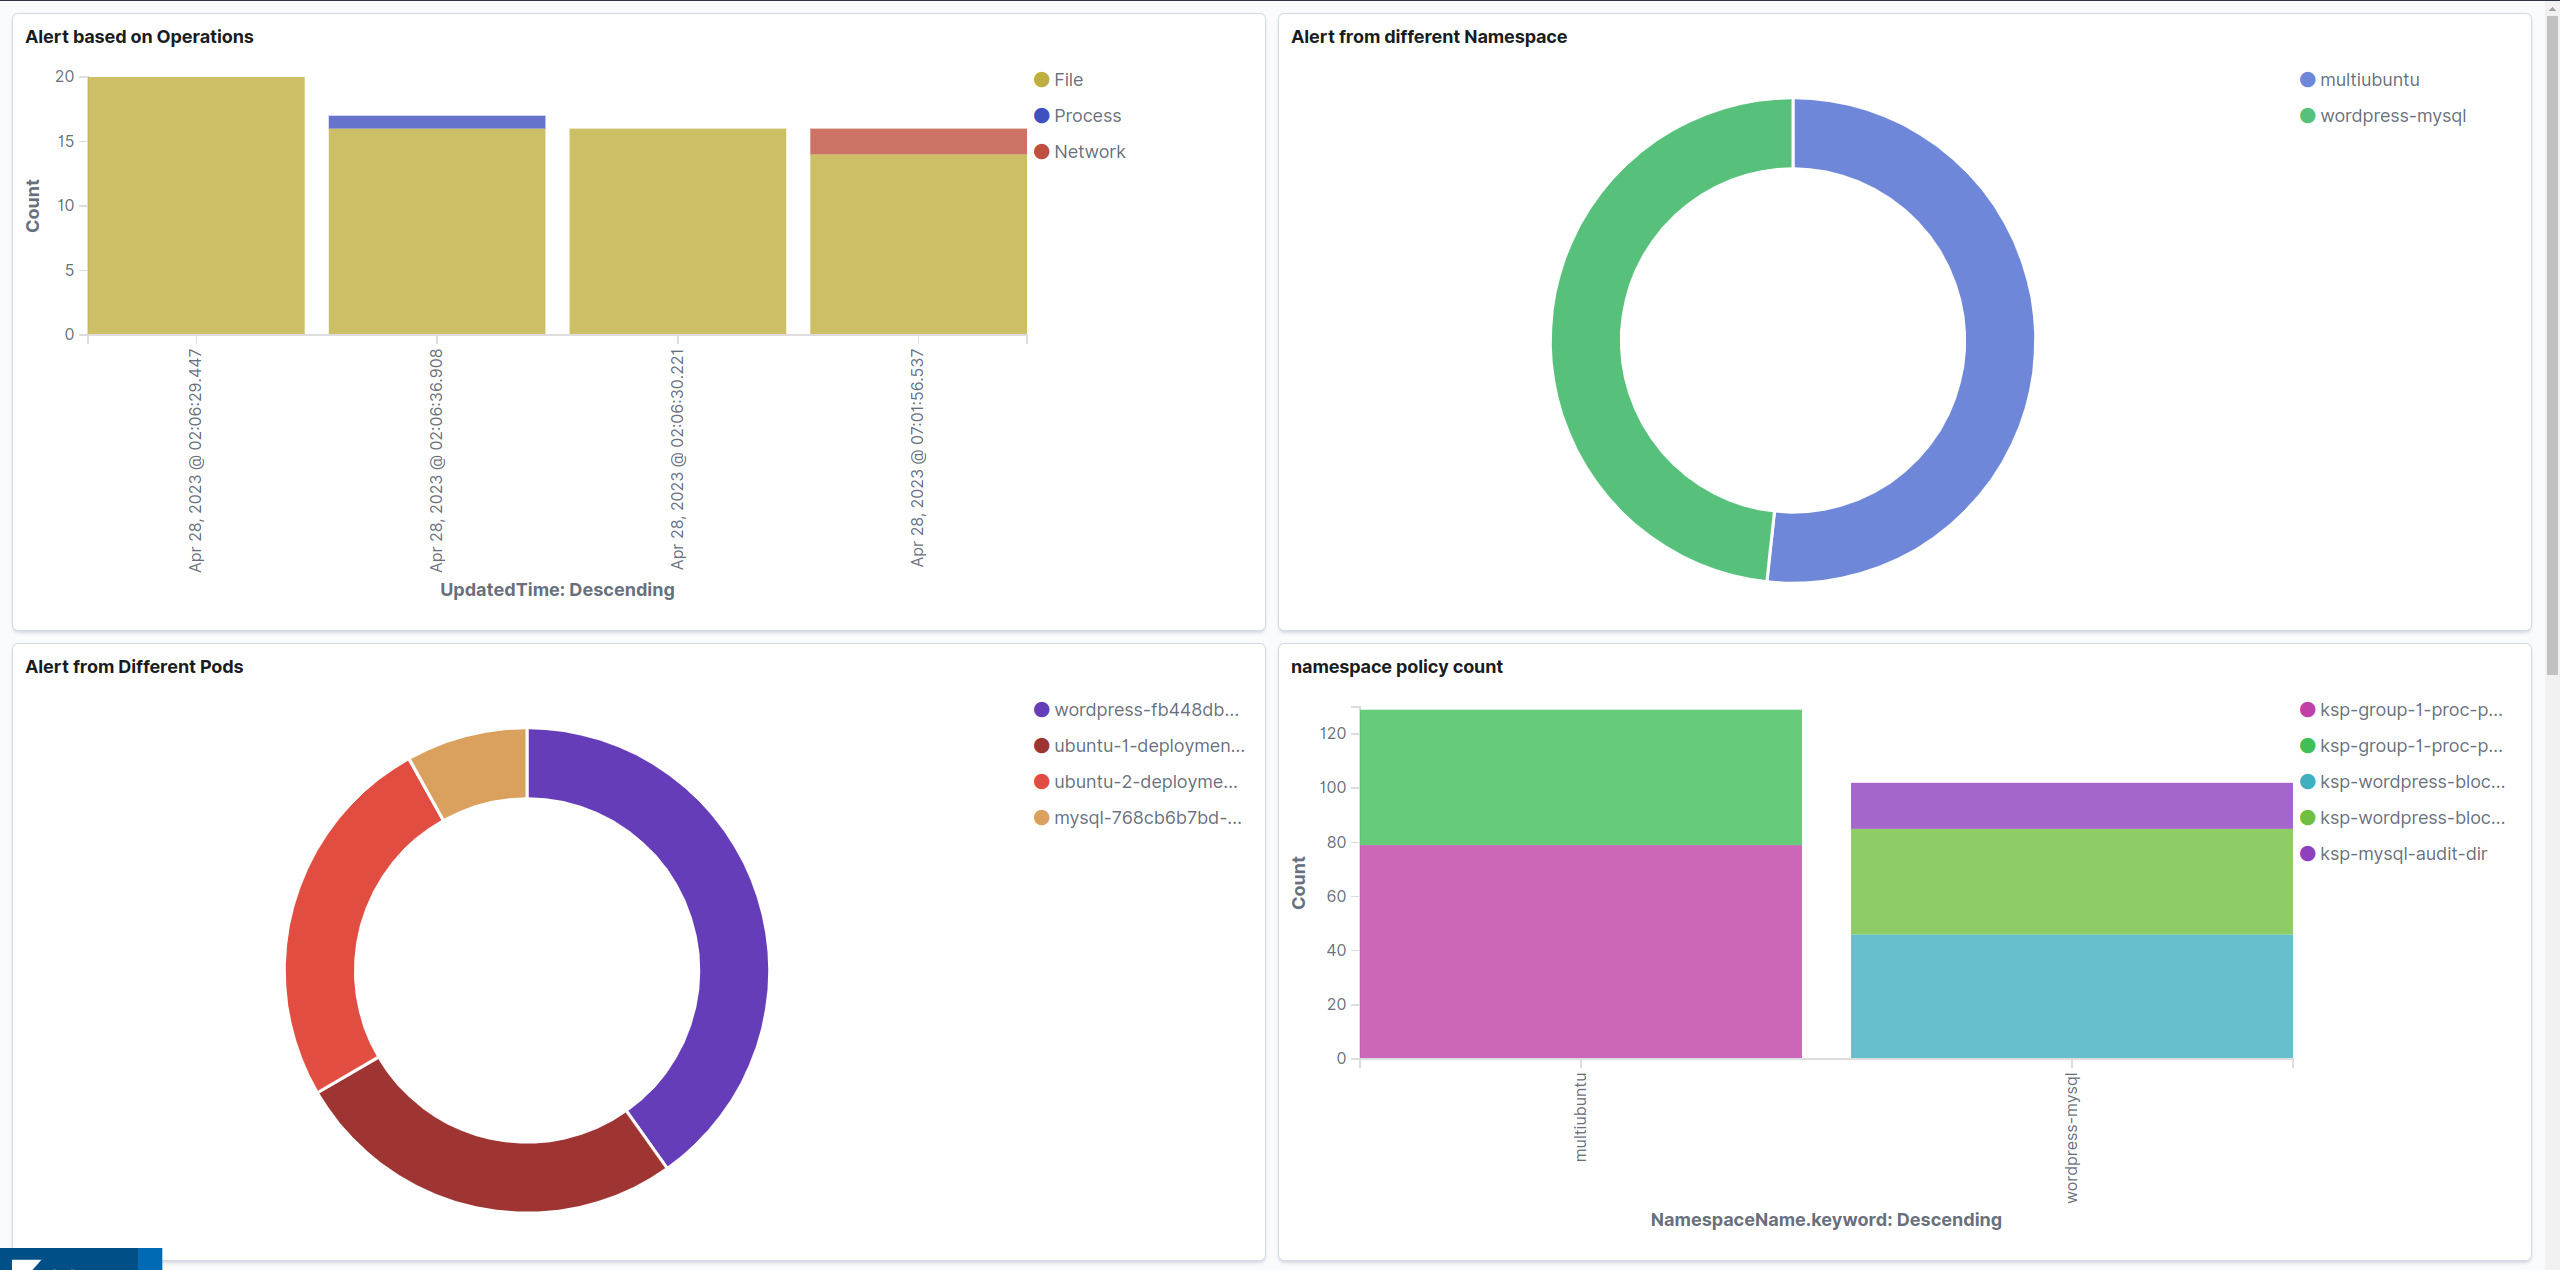
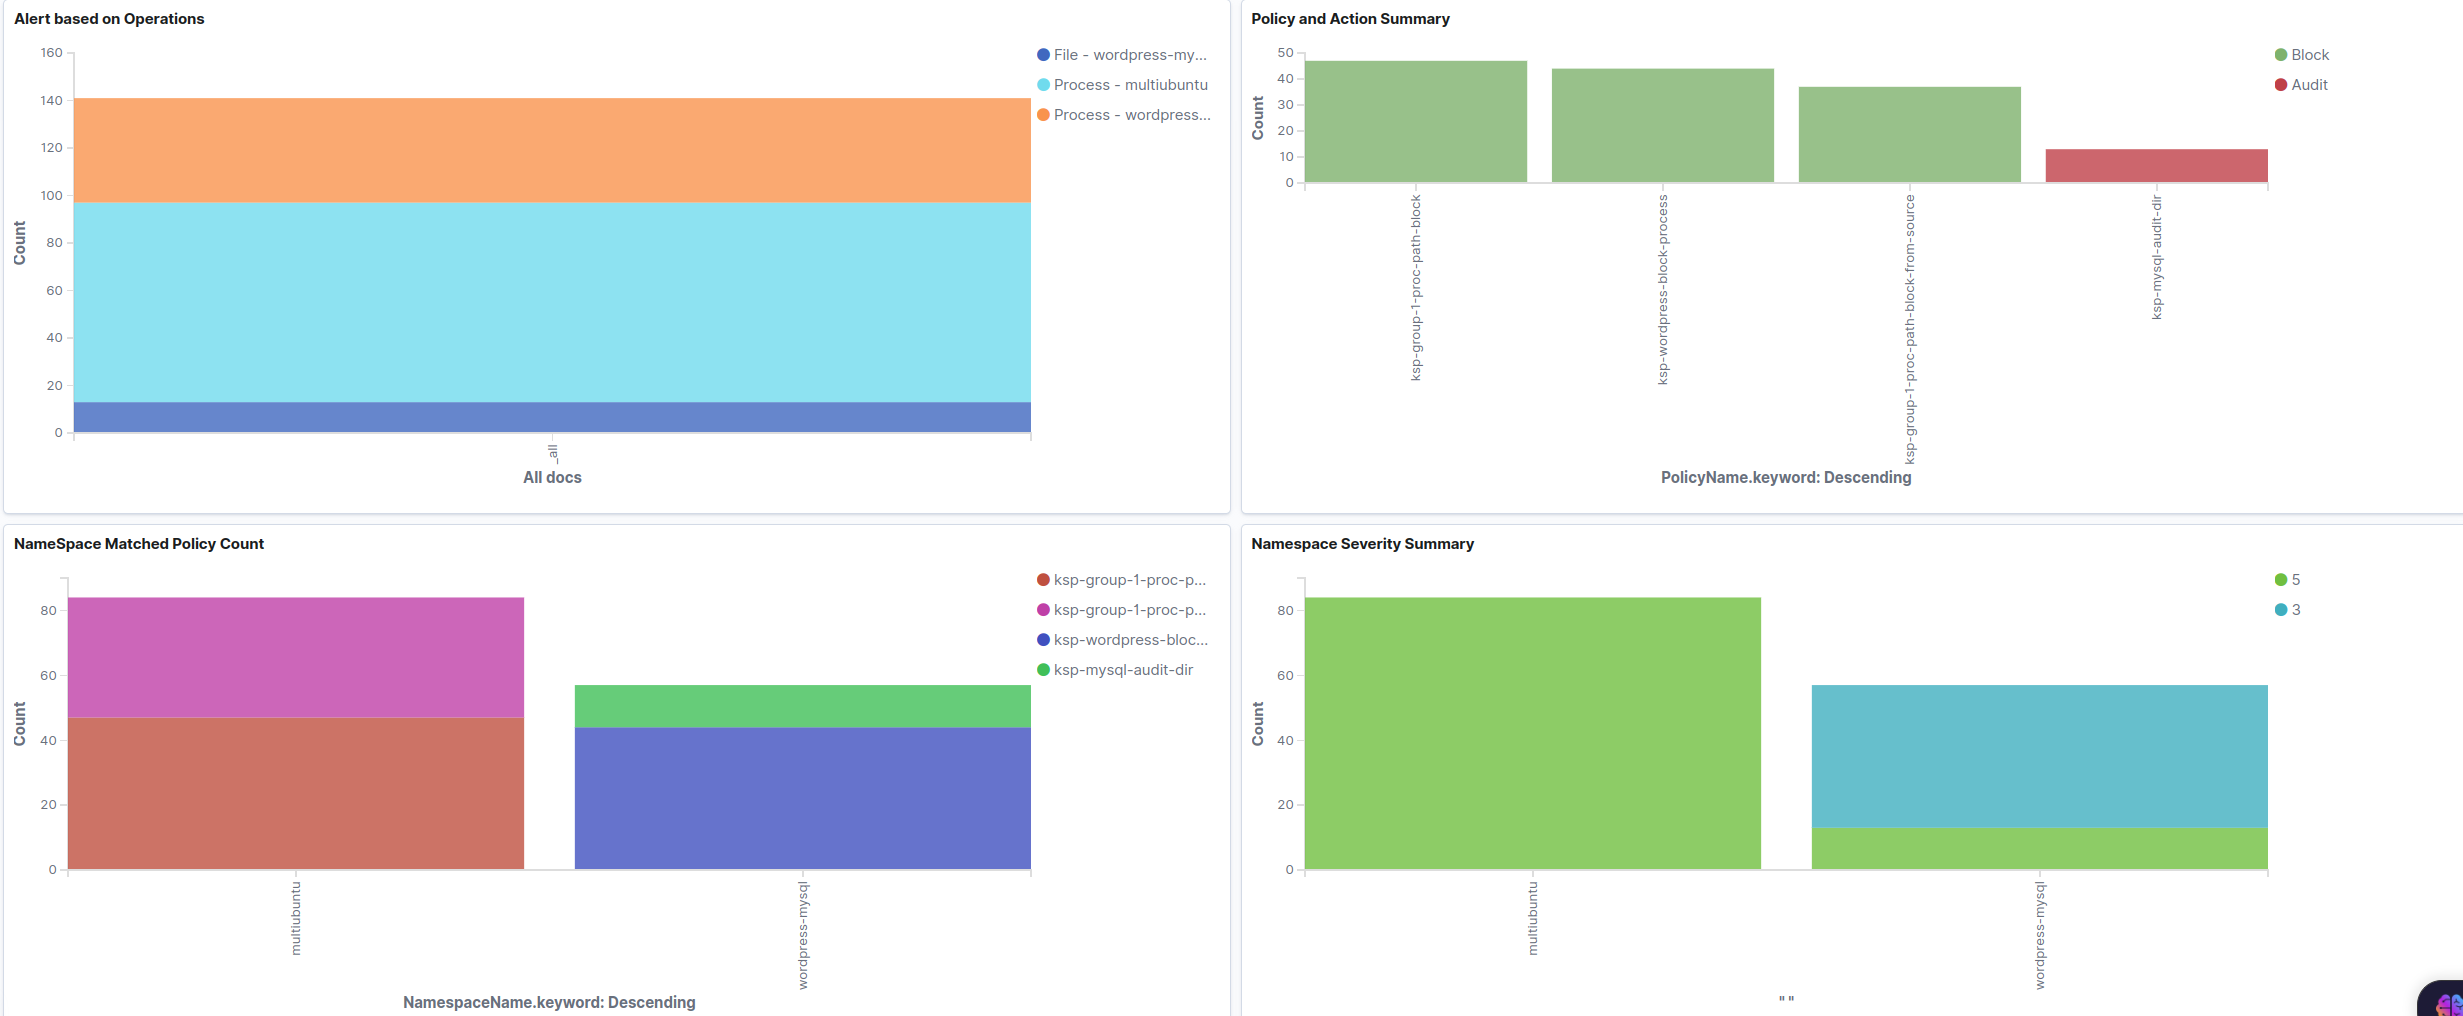
updated manifests , docs and dashboards

diff --git a/relay-server/elastisearch/adapter.go b/relay-server/elastisearch/adapter.go
@@ -4,8 +4,12 @@ import (
 	"bytes"
 	"context"
 	"encoding/json"
-	"flag"
 	"fmt"
+	"log"
+	"strings"
+	"sync/atomic"
+	"time"
+
 	"github.com/cenkalti/backoff/v4"
 	"github.com/dustin/go-humanize"
 	"github.com/elastic/go-elasticsearch/v7"
@@ -13,10 +17,6 @@ import (
 	"github.com/google/uuid"
 	kg "github.com/kubearmor/kubearmor-relay-server/relay-server/log"
 	"github.com/kubearmor/kubearmor-relay-server/relay-server/server"
-	"log"
-	"strings"
-	"sync/atomic"
-	"time"
 )
 
 var (
@@ -32,13 +32,13 @@ type ElasticsearchClient struct {
 	cancel      context.CancelFunc
 	bulkIndexer esutil.BulkIndexer
 	ctx         context.Context
-	messageCh   chan interface{}
 	alertCh     chan interface{}
-	logCh       chan interface{}
 }
 
+// NewElasticsearchClient creates a new Elasticsearch client with the given Elasticsearch URL
+// and kubearmor LogClient with endpoint. It has a retry mechanism for certain HTTP status codes and a backoff function for retry delays.
+// It then creates a new NewBulkIndexer with the esClient
 func NewElasticsearchClient(esURL, Endpoint string) (*ElasticsearchClient, error) {
-	//Endpoint = "172.26.40.47:32767"
 	retryBackoff := backoff.NewExponentialBackOff()
 	cfg := elasticsearch.Config{
 		Addresses: []string{esURL},
@@ -60,38 +60,24 @@ func NewElasticsearchClient(esURL, Endpoint string) (*ElasticsearchClient, error
 	if err != nil {
 		return nil, fmt.Errorf("failed to create Elasticsearch client: %v", err)
 	}
-	res, err := esClient.Ping()
-	if err != nil {
-		log.Fatalf("Error pinging the cluster: %s", err)
-	}
-	println(res)
 	bi, err := esutil.NewBulkIndexer(esutil.BulkIndexerConfig{
 		Client:        esClient,         // The Elasticsearch client
-		FlushBytes:    1000000,          // The flush threshold in bytes [3mb]
+		FlushBytes:    1000000,          // The flush threshold in bytes [1mb]
 		FlushInterval: 30 * time.Second, // The periodic flush interval [30 secs]
 	})
 	if err != nil {
 		log.Fatalf("Error creating the indexer: %s", err)
 	}
-	//messageCh := make(chan interface{}, 1000000)
 	alertCh := make(chan interface{}, 10000)
-	//logCh := make(chan interface{}, 1000000)
 	kaClient := server.NewClient(Endpoint)
 	return &ElasticsearchClient{kaClient: kaClient, bulkIndexer: bi, esClient: esClient, alertCh: alertCh}, nil
 }
 
-// GetElasticsearchClient returns an elastisearch client
-func GetElasticsearchClient() (*ElasticsearchClient, error) {
-	elastisearchServiceURL := flag.String("esSvcURL", "http://127.0.0.1:9200", "es Svc URL")
-	return NewElasticsearchClient(*elastisearchServiceURL, "localhost:32767")
-}
-
-// bulk Index takes an interface and index name and
-// adds to the bulkIndexer which will get flushed
-// after FlushBytes or FlushInterval has reached
+// bulkIndex takes an interface and index name and adds the data to the Elasticsearch bulk indexer.
+// The bulk indexer flushes after the FlushBytes or FlushInterval thresholds are reached.
+// The method generates a UUID as the document ID and includes success and failure callbacks for each item added to the bulk indexer.
 func (ecl *ElasticsearchClient) bulkIndex(a interface{}, index string) {
 	countEntered++
-	//fmt.Printf("Entered Bulk Index : %s, %s\n", countEntered, index)
 	data, err := json.Marshal(a)
 	if err != nil {
 		log.Fatalf("Error marshaling data: %s", err)
@@ -106,7 +92,6 @@ func (ecl *ElasticsearchClient) bulkIndex(a interface{}, index string) {
 			Body:       bytes.NewReader(data),
 			OnSuccess: func(ctx context.Context, item esutil.BulkIndexerItem, res esutil.BulkIndexerResponseItem) {
 				atomic.AddUint64(&countSuccessful, 1)
-				//println("SUCCESS")
 			},
 			OnFailure: func(ctx context.Context, item esutil.BulkIndexerItem, res esutil.BulkIndexerResponseItem, err error) {
 				if err != nil {
@@ -117,15 +102,18 @@ func (ecl *ElasticsearchClient) bulkIndex(a interface{}, index string) {
 			},
 		},
 	)
-	//println("ADDED")
 
 	if err != nil {
 		log.Fatalf("Error adding items to bulk indexer: %s", err)
 	}
 }
 
+// Start starts the Elasticsearch client by performing a health check on the gRPC server
+// and starting goroutines to consume messages from the alert channel and bulk index them.
+// The method starts a goroutine for each stream and waits for messages to be received.
+// Additional goroutines consume alert from the alert channel and bulk index them.
 func (ecl *ElasticsearchClient) Start() error {
-
+	println("entered start")
 	start = time.Now()
 	client := ecl.kaClient
 	ecl.ctx, ecl.cancel = context.WithCancel(context.Background())
@@ -136,21 +124,7 @@ func (ecl *ElasticsearchClient) Start() error {
 	}
 	kg.Printf("Checked the liveness of the gRPC server")
 
-	// start goroutines for each stream
 	client.WgServer.Add(1)
-	//go func() {
-	//	defer client.WgServer.Done()
-	//	for client.Running {
-	//		res, err := client.MsgStream.Recv()
-	//		if err != nil {
-	//			kg.Warnf("Failed to receive a message (%s)", client.Server)
-	//			break
-	//		}
-	//		//tel, _ := json.Marshal(res)
-	//		//fmt.Printf("%s\n", string(tel))
-	//		ecl.messageCh <- *res
-	//	}
-	//}()
 	go func() {
 		defer client.WgServer.Done()
 		for client.Running {
@@ -159,37 +133,18 @@ func (ecl *ElasticsearchClient) Start() error {
 				kg.Warnf("Failed to receive an alert (%s)", client.Server)
 				break
 			}
-			//tel, _ := json.Marshal(res)
-			//fmt.Printf("%s\n", string(tel))
+			tel, _ := json.Marshal(res)
+			fmt.Printf("%s\n", string(tel))
 			ecl.alertCh <- res
 		}
 	}()
-	//go func() {
-	//	defer client.WgServer.Done()
-	//	for client.Running {
-	//		res, err := client.LogStream.Recv()
-	//		if err != nil {
-	//			kg.Warnf("Failed to receive a log (%s)", client.Server)
-	//			break
-	//		}
-	//		//tel, _ := json.Marshal(res)
-	//		//fmt.Printf("%s\n", string(tel))
-	//		ecl.logCh <- res
-	//
-	//	}
-	//}()
 
-	// start goroutines to consume messages from the channels and bulk index them
 	for i := 0; i < 5; i++ {
 		go func() {
 			for {
 				select {
-				//case msg := <-ecl.messageCh:
-				//	ecl.bulkIndex(msg, "message")
 				case alert := <-ecl.alertCh:
 					ecl.bulkIndex(alert, "alert")
-				//case log := <-ecl.logCh:
-				//	ecl.bulkIndex(log, "log")
 				case <-ecl.ctx.Done():
 					return
 				}
@@ -199,6 +154,8 @@ func (ecl *ElasticsearchClient) Start() error {
 	return nil
 }
 
+// Stop stops the Elasticsearch client and performs necessary cleanup operations.
+// It stops the Kubearmor Relay client, closes the BulkIndexer and cancels the context.
 func (ecl *ElasticsearchClient) Stop() error {
 	logClient := ecl.kaClient
 	logClient.Running = false
@@ -206,7 +163,7 @@ func (ecl *ElasticsearchClient) Stop() error {
 
 	//Destoy KubeArmor Relay Client
 	if err := logClient.DestroyClient(); err != nil {
-		return fmt.Errorf("Failed to destroy the kubearmor relay gRPC client (%s)\n", err.Error())
+		return fmt.Errorf("failed to destroy the kubearmor relay gRPC client (%s)\n", err.Error())
 	}
 	kg.Printf("Destroyed kubearmor relay gRPC client")
 
@@ -223,6 +180,8 @@ func (ecl *ElasticsearchClient) Stop() error {
 	return nil
 }
 
+// PrintBulkStats prints data on the bulk indexing process, including the number of indexed documents,
+// the number of errors, and the indexing rate , after elastisearch client stops
 func (ecl *ElasticsearchClient) PrintBulkStats() {
 	biStats := ecl.bulkIndexer.Stats()
 	println(strings.Repeat("▔", 80))
@@ -246,5 +205,4 @@ func (ecl *ElasticsearchClient) PrintBulkStats() {
 		)
 	}
 	println(strings.Repeat("▔", 80))
-
 }

diff --git a/relay-server/main.go b/relay-server/main.go
@@ -5,10 +5,11 @@ package main
 
 import (
 	"flag"
-	"github.com/kubearmor/kubearmor-relay-server/relay-server/elastisearch"
 	"os"
 	"os/signal"
 	"syscall"
+
+	"github.com/kubearmor/kubearmor-relay-server/relay-server/elastisearch"
 
 	kg "github.com/kubearmor/kubearmor-relay-server/relay-server/log"
 	"github.com/kubearmor/kubearmor-relay-server/relay-server/server"
@@ -52,10 +53,12 @@ func main() {
 	flag.Parse()
 
 	//get env
-
 	enableEsDashboards := os.Getenv("ENABLE_DASHBOARDS")
 	esUrl := os.Getenv("ES_URL")
 	endPoint := os.Getenv("KUBEARMOR_SERVICE")
+	if endPoint == "" {
+		endPoint = "localhost:32767"
+	}
 
 	// == //
 
@@ -77,8 +80,9 @@ func main() {
 
 	// == //
 
-	//check and start an elastisearch client
+	// check and start an elastisearch client
 	if enableEsDashboards == "true" {
+		println("entered")
 		esCl, err := elastisearch.NewElasticsearchClient(esUrl, endPoint)
 		if err != nil {
 			kg.Warnf("Failed to start a Elastisearch Client")

diff --git a/relay-server/server/relayServer.go b/relay-server/server/relayServer.go
@@ -307,7 +307,7 @@ func NewClient(server string) *LogClient {
 
 	lc.Server = server
 
-	lc.conn, err = grpc.Dial(server, grpc.WithInsecure())
+	lc.conn, err = grpc.Dial(lc.Server, grpc.WithInsecure())
 	if err != nil {
 		kg.Warnf("Failed to connect to KubeArmor's gRPC service (%s)", server)
 		return nil
@@ -543,7 +543,7 @@ func NewRelayServer(port string) *RelayServer {
 	// listen to gRPC port
 	listener, err := net.Listen("tcp", ":"+rs.Port)
 	if err != nil {
-		kg.Errf("Failed to listen a port (%s)\n", "32817")
+		kg.Errf("Failed to listen a port (%s)\n", rs.Port)
 		return nil
 	}
 	rs.Listener = listener
@@ -640,7 +640,6 @@ func connectToKubeArmor(nodeIP, port string) error {
 
 	// create connection info
 	server := nodeIP + ":" + port
-	//println(server)
 
 	defer DeleteClientEntry(nodeIP)
 

diff --git a/docs/ek-dashboards/ek-dashboards.md b/docs/ek-dashboards/ek-dashboards.md
@@ -1,7 +1,7 @@
 # kubearmor-elasticstack-logging
 
 
-## Elastic Stack Visualisation(Elasticsearch and Kibana)
+## Elastic Stack Visualisation
 
 
 There would be 2 additional components along with the Relay server:
@@ -26,16 +26,16 @@ Kibana will be a part of deployment , while  ElasticSearch will be a part of Sta
 kubectl apply -f deployments/ek-dashboards
 ```
 
-For the log data to be sent to elasticsearch, change the valus of ```enableEsDashboards``` in ```deployments/relay-deployment.yaml>spec>container>env``` to ```true``` , it should look like 
+For the log data to be sent to elasticsearch, change the values of ```ENABLE_DASHBOARDS``` in ```deployments/relay-deployment.yaml>spec>template>spec>container>env``` to ```true``` , it should look like 
 
 ```
-     .......
+    .......
 
       containers:
       - name: kubearmor-relay-server
         image: sibashi/kubearmor-relay-server:latest
         env:
-          - name: enableEsDashboards
+          - name: ENABLE_DASHBOARDS
             value: "true"
     .......
 
@@ -43,20 +43,23 @@ For the log data to be sent to elasticsearch, change the valus of ```enableEsDas
 
 To View the DashBoards
 
-1. Portforward the Kibana service
+* Portforward the Kibana service
 ```
 kubectl port-forward deployment/kibana -n kube-system 5601:5601
 ```
-2. Open up a browser and go to [localhost:5601](localhost:5601)
-3. Go to sidebar and open ``Mangement`` -> ``Saved Objects`` -> ``Import``
+* Open up a browser and go to [localhost:5601](localhost:5601)
+* Go to sidebar and open ``Mangement`` -> ``Saved Objects`` -> ``Import``
 
 Drag and drop the file from ```docs/ek-dashboards/export.ndjson```
 
-4. Go to ``Dashboard`` section , selct ``KA``
+* Go to ``Dashboard`` section , selct ``KA``
 
-5. The visalisations should be ready 
+* The visalisations should be ready !!
 
-![Dash Board 1](./dash-1.png)
+Here are some example visulisation with [multiubuntu](https://github.com/kubearmor/KubeArmor/blob/main/examples/multiubuntu.md) and [wordpress-mysql](https://github.com/kubearmor/KubeArmor/blob/main/examples/wordpress-mysql.md) example
+
 ![Dash Board 2](./dash-2.png)
+![Dash Board 1](./dash-1.png)
+
 
 
